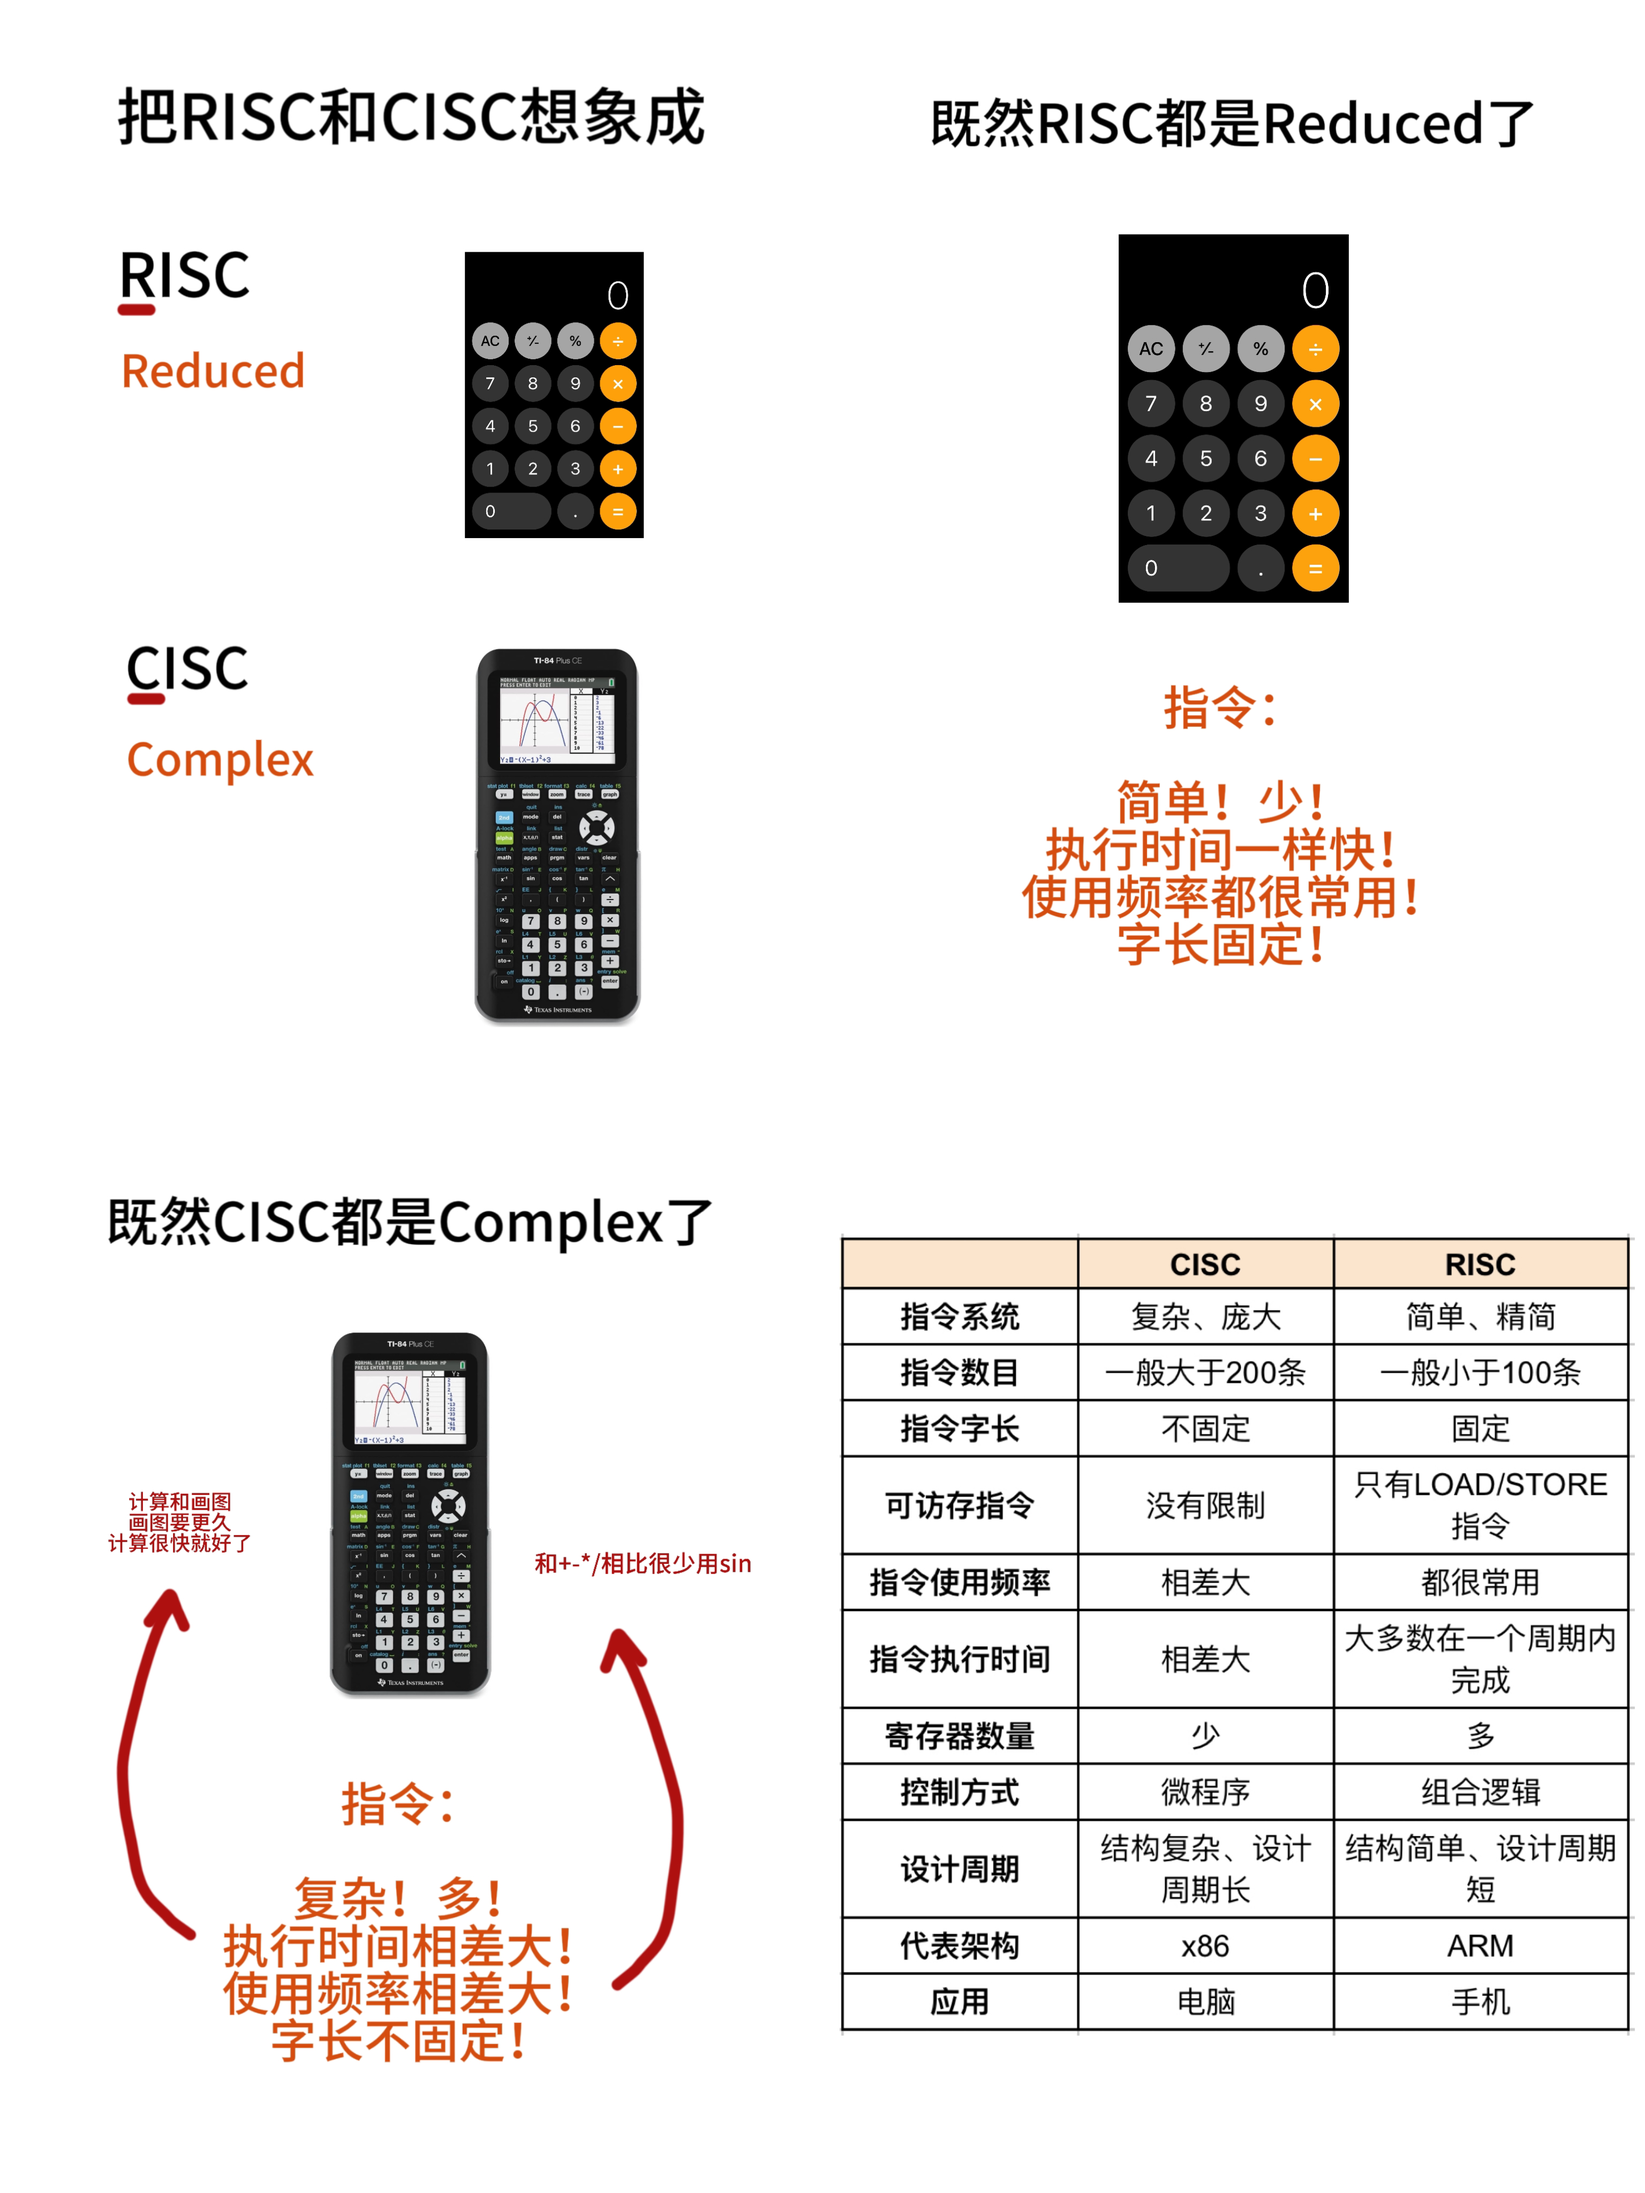
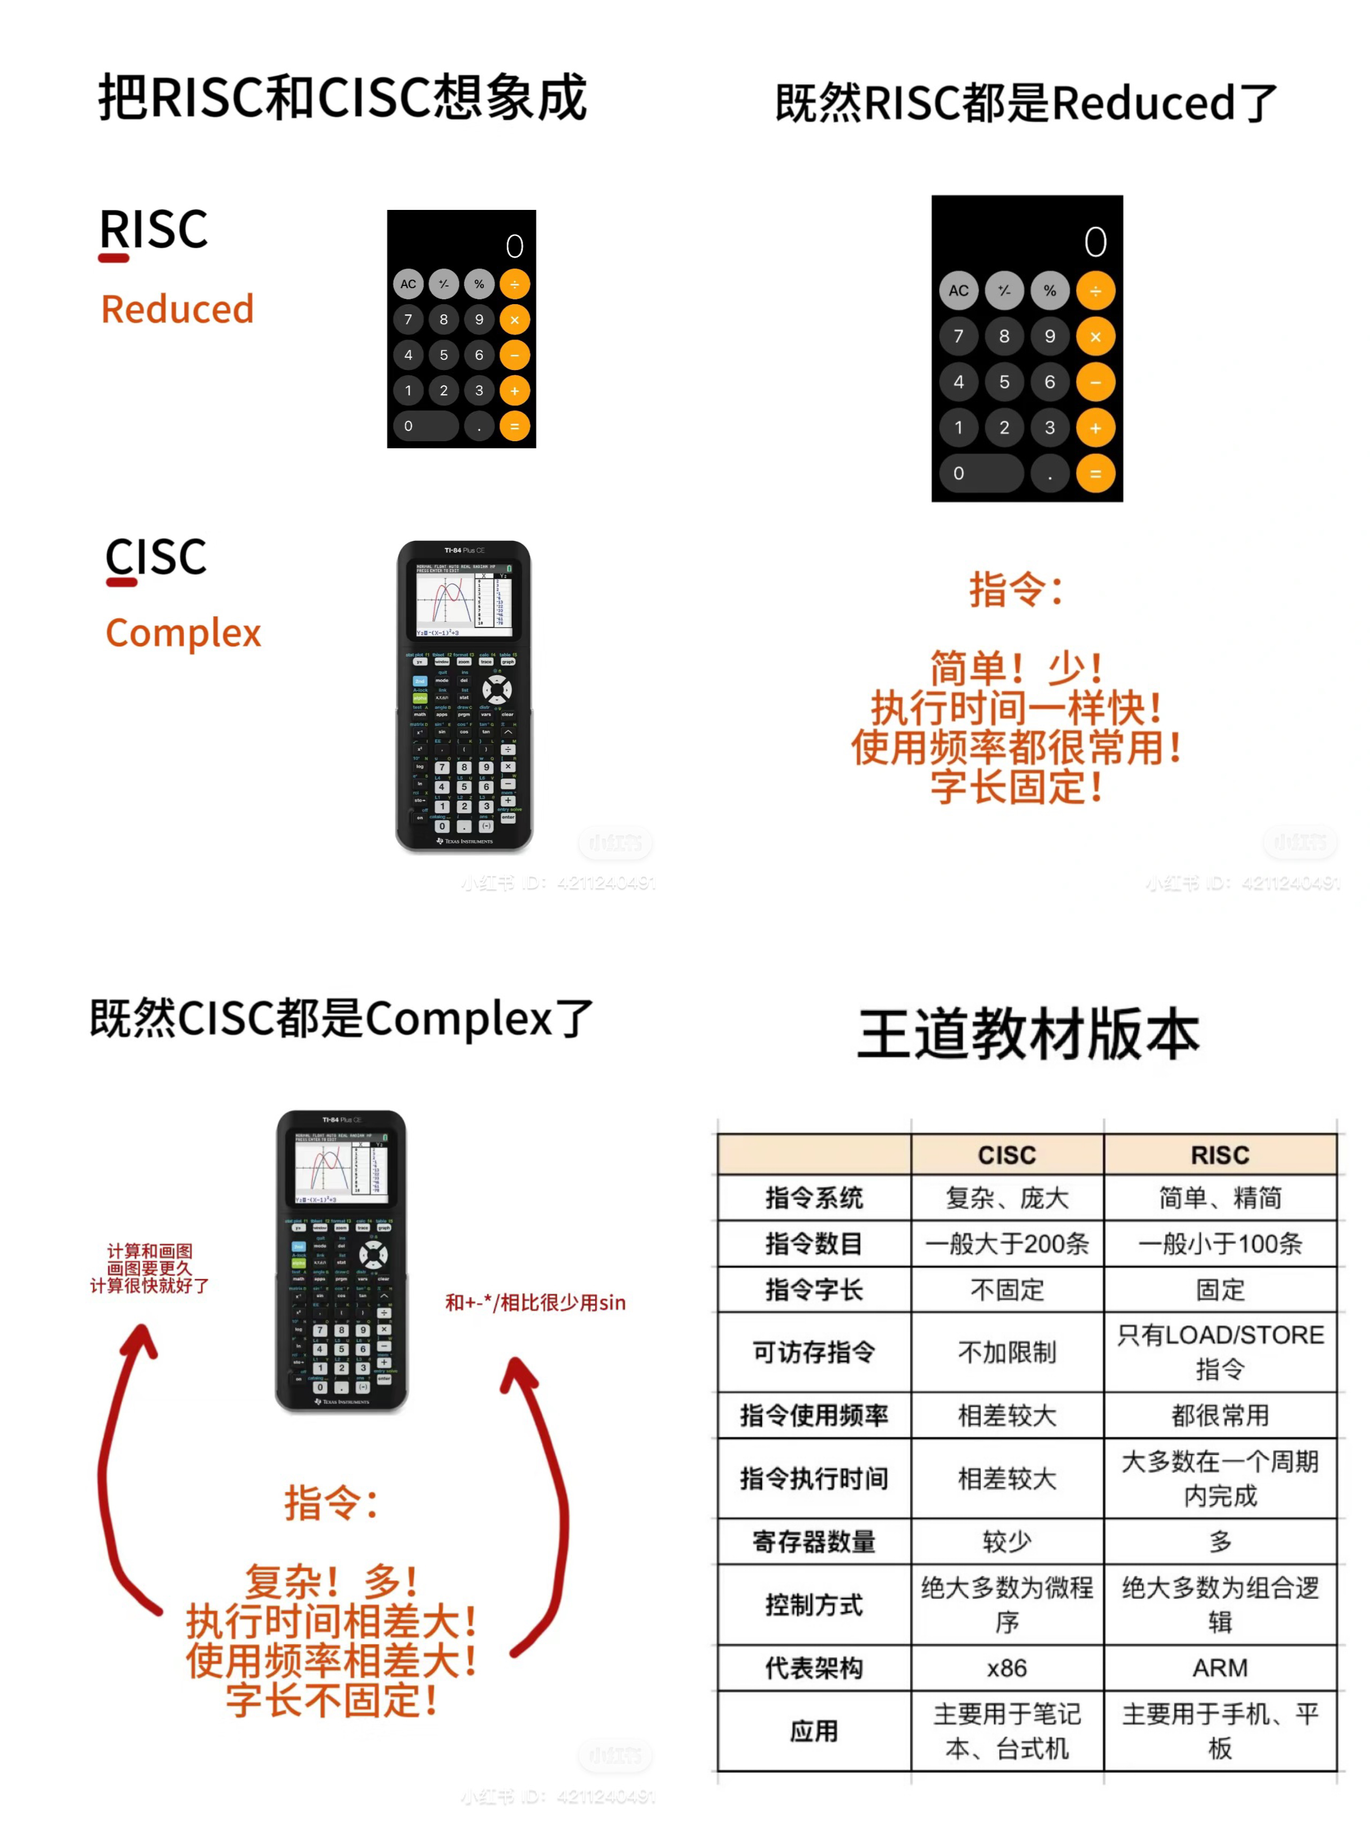
update new content 24/1/24

diff --git a/计算机网络/websocket.md b/计算机网络/websocket.md
@@ -1,0 +1,12 @@
+# 什么是WebSocket
+
+![WebSocket](../Assets/Network/websocket.jpg)
+
+<br>
+WebSocket是HTML5定义的一种协议，可以让客户端和服务器建立全双工通信。它建立了可持久化的TCP连接，这个连接会保持开放直到客户端/服务器决定关闭它
+<br>
+HTTP有1.0和1.1版本，HTTP 1.0默认TCP连接只处理一个请求和响应，然后结束。HTTP 1.1新增了Connection: keep-alive，让TCP连接可以发送多个请求和接受多个响应。
+<br>
+在websocket之前，为了实现实时通信通常会使用轮询和长轮询，这两种技术在HTTP 1.0和1.1都适用。轮询就是让客户端定期主动发送HTTP请求来获取最新信息，长轮询可以把GET请求保持一段时间，但是超时后客户端还是要重发请求。所以这两个技术都会造成资源浪费和延迟
+<br>
+实现WebSocket可以解决这一点。客户端会先给服务器发送一个HTTP请求开始一个WebSocket握手，请求里包含Upgrade：websocket。要是服务器同意的话就会返回一个101 响应，这下双方都可以在这个连接上自由地进行数据传输

diff --git a/计算机组成原理/cisc_risc.md b/计算机组成原理/cisc_risc.md
@@ -1,0 +1,6 @@
+# SRAM和DRAM的区别
+	
+![CISC](../Assets/CO/cisc_risc.jpg)
+
+## 评论区指正
+诺丁山下的大渣猫：指令数目和寄存器数量是没有具体界定的，这事情我问过 Patterson。CISC可以有固定字长，比如PDP-8架构。访存指令和RISC CISC无关，比如m2m型RISC不利用load store 访存。控制方式归根结底都是时序逻辑电路，而且CISC不一定要使用微指令。现代处理器设局周期和指令集关系也不大了，真正瓶颈包括eda软件等等。应用方面，电脑上用RISC的也越来越多了，比如华为泰山芯片，苹果m系列芯片。

diff --git a/算法和数据结构/leetcode371.md b/算法和数据结构/leetcode371.md
@@ -1,0 +1,27 @@
+# LeetCode 55：跳跃游戏
+
+![leetcode371](../Assets/Algo/leetcode371.jpg)
+
+```C++
+int getSum(int a, int b) {
+    while (b) { // 0就代表不用继续加了 退出循环
+        int sign = (a & b) << 1; // 找进位
+        a ^= b; // 剩下的加起来
+        b = sign;
+    }
+    return a;
+
+    // a = 0100
+    // b = 0101
+
+    // sign = 0100
+    // sign = 1000
+
+    // a ^= b --> 0001
+    // b = 1000
+
+    // sign = 0000
+    // sign = 0000
+
+    // a ^= b --> 1001
+}

diff --git a/算法和数据结构/算法和数据结构.md b/算法和数据结构/算法和数据结构.md
@@ -10,5 +10,11 @@
 4. [队列](./队列.md)
 
 ## LeetCode
-1. [LeetCode 3： 无重复最长字符](./leetcode3.md)
-2. [LeetCode 55：跳跃游戏](./leetcode55.md)
+### 滑动窗口
+- [LeetCode 3： 无重复最长字符](./leetcode3.md)
+
+### 贪心
+- [LeetCode 55：跳跃游戏](./leetcode55.md)
+
+### 位运算
+- [LeetCode 371: 两整数之和](./leetcode371.md)

diff --git a/计算机网络/计算机网络.md b/计算机网络/计算机网络.md
@@ -14,6 +14,7 @@
 ## 应用层
 1. [Cookie和Session的区别](./cookie_session.md)
 2. [DNS解析过程](./dns.md)
+3. [什么是WebSocket](./websocket.md)
 
 ## 网络层
 1. [ARP协议](./arp.md)

diff --git a/计算机组成原理/计算机组成原理.md b/计算机组成原理/计算机组成原理.md
@@ -9,3 +9,6 @@
 
 ## 存储器
 1. [SRAM和DRAM的区别](./sramdram.md)
+
+## 指令
+1. [CISC和RISC的区别](./cisc_risc.md)
